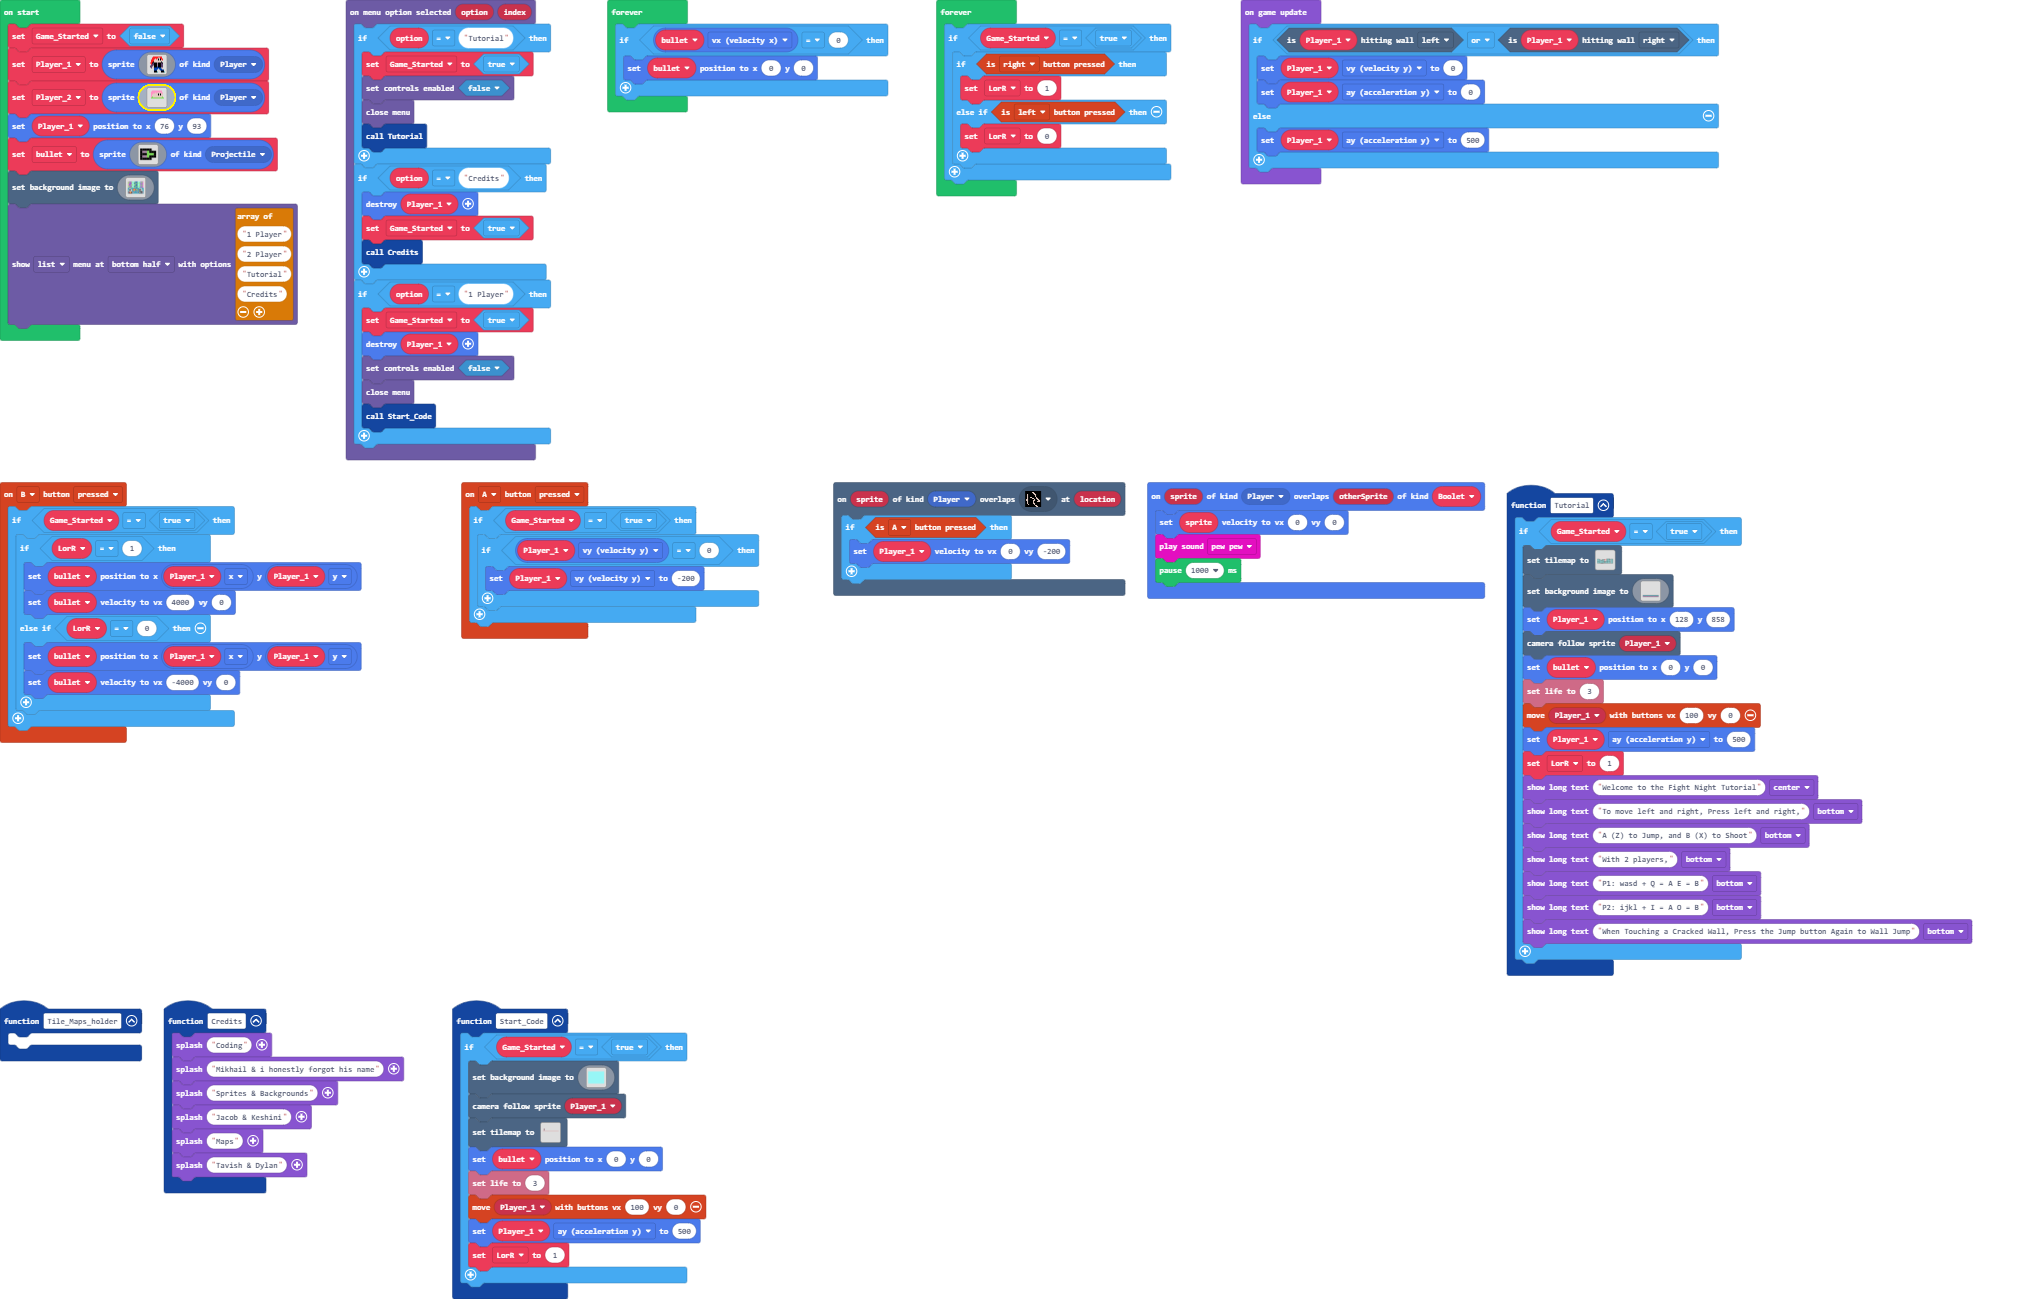
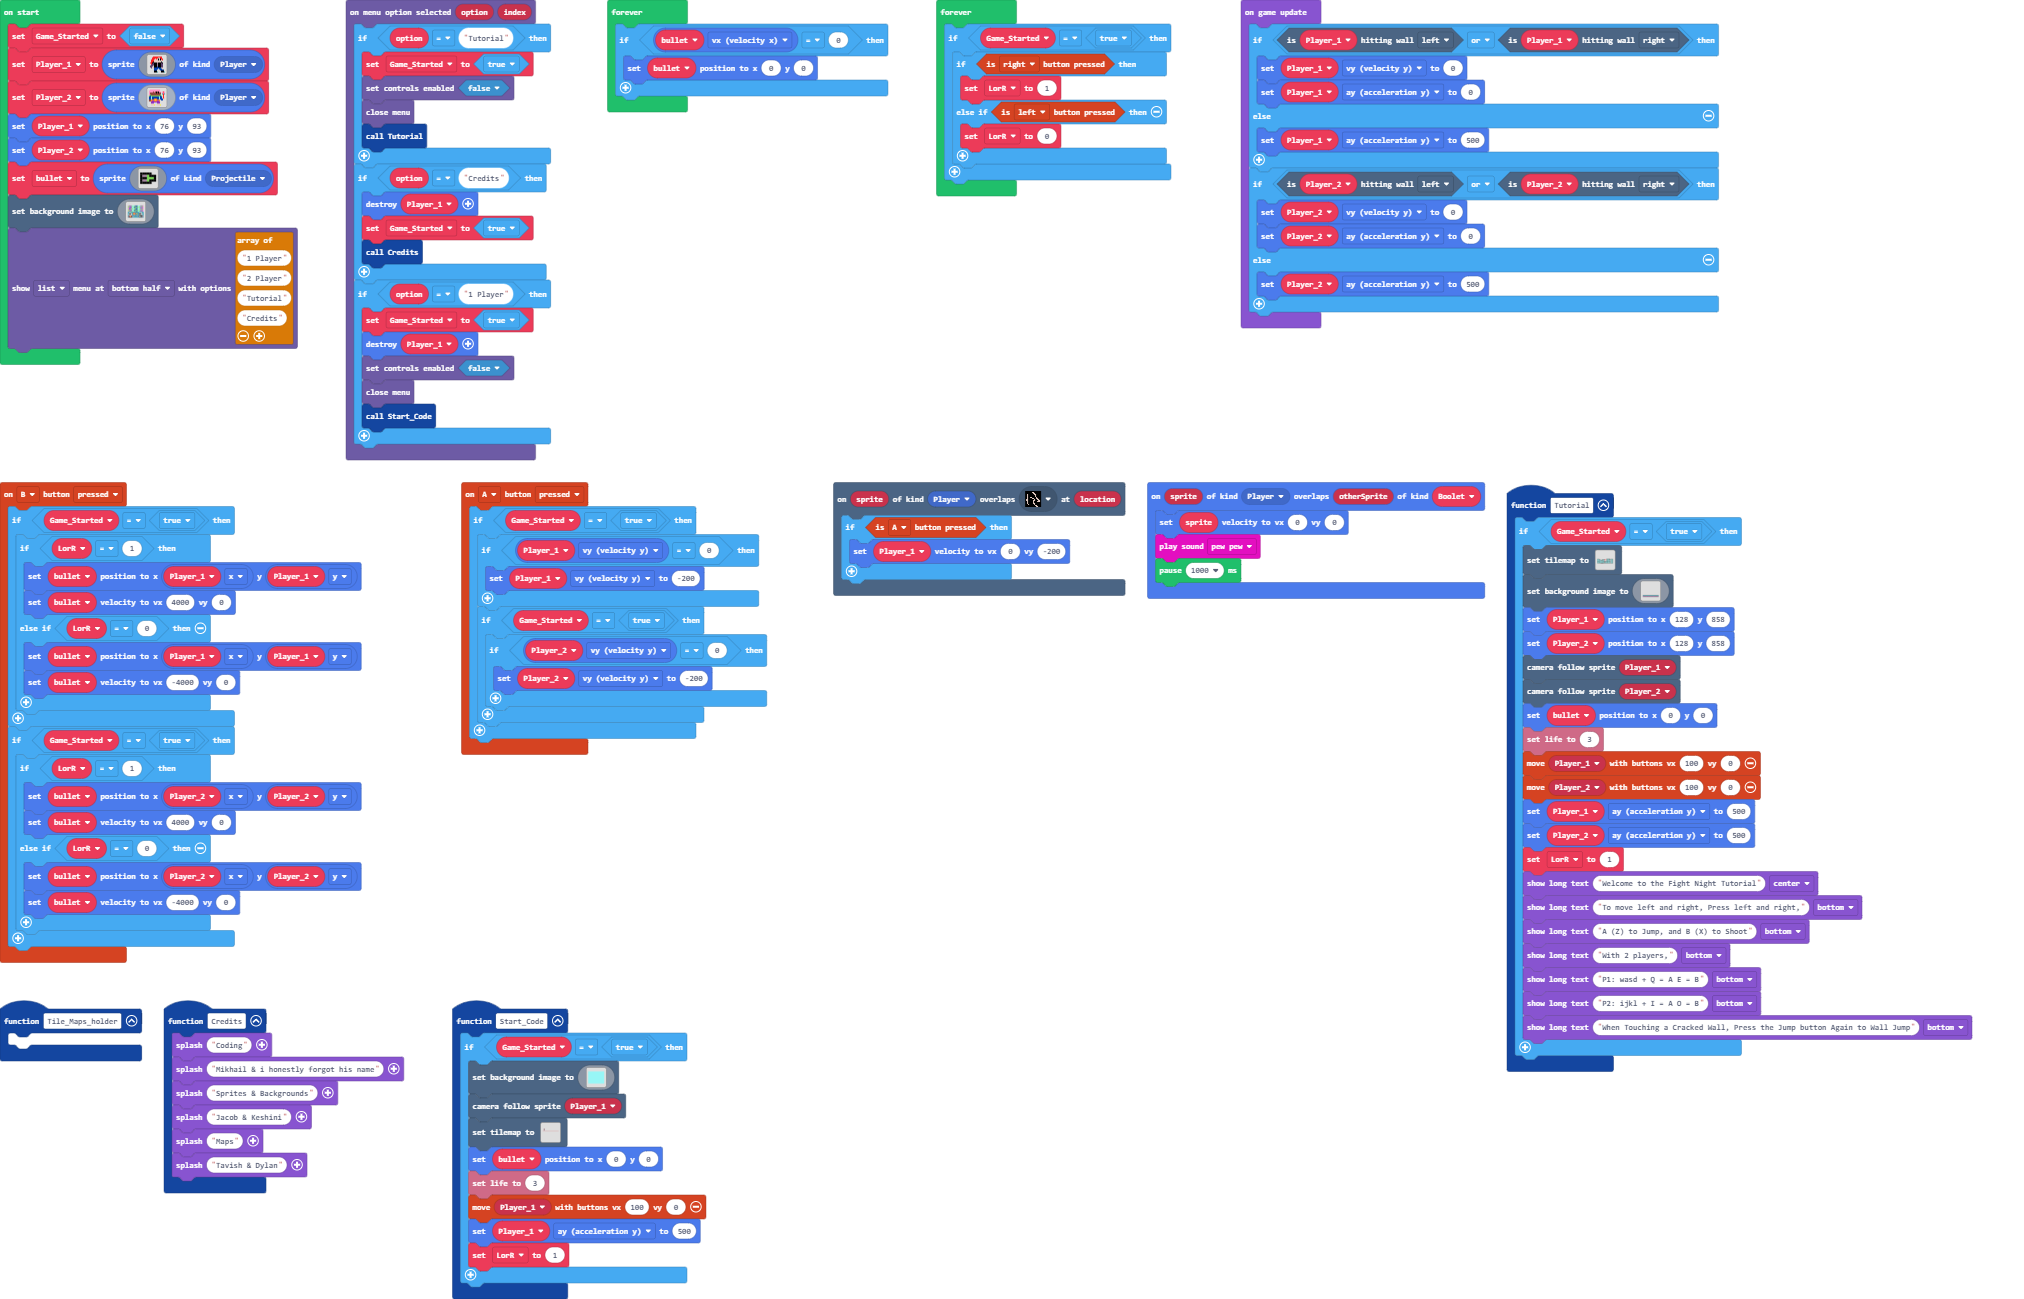
new person

diff --git a/main.ts b/main.ts
@@ -9,11 +9,25 @@ controller.B.onEvent(ControllerButtonEvent.Pressed, function () {
             bullet.setVelocity(-4000, 0)
         }
     }
+    if (Game_Started == true) {
+        if (LorR == 1) {
+            bullet.setPosition(Player_2.x, Player_2.y)
+            bullet.setVelocity(4000, 0)
+        } else if (LorR == 0) {
+            bullet.setPosition(Player_2.x, Player_2.y)
+            bullet.setVelocity(-4000, 0)
+        }
+    }
 })
 controller.A.onEvent(ControllerButtonEvent.Pressed, function () {
     if (Game_Started == true) {
         if (Player_1.vy == 0) {
             Player_1.vy = -200
+        }
+        if (Game_Started == true) {
+            if (Player_2.vy == 0) {
+                Player_2.vy = -200
+            }
         }
     }
 })
@@ -148,11 +162,15 @@ function Tutorial () {
             cccccccccccccccccccccccccccccccccccccccccccccccccccccccccccccccccccccccccccccccccccccccccccccccccccccccccccccccccccccccccccccccccccccccccccccccccccccccccccccccc
             `)
         Player_1.setPosition(128, 858)
+        Player_2.setPosition(128, 858)
         scene.cameraFollowSprite(Player_1)
+        scene.cameraFollowSprite(Player_2)
         bullet.setPosition(0, 0)
         info.setLife(3)
         controller.moveSprite(Player_1, 100, 0)
+        controller.moveSprite(Player_2, 100, 0)
         Player_1.ay = 500
+        Player_2.ay = 500
         LorR = 1
         game.showLongText("Welcome to the Fight Night Tutorial", DialogLayout.Center)
         game.showLongText("To move left and right, Press left and right,", DialogLayout.Bottom)
@@ -334,6 +352,7 @@ function Start_Code () {
 }
 let LorR = 0
 let bullet: Sprite = null
+let Player_2: Sprite = null
 let Player_1: Sprite = null
 let Game_Started = false
 Game_Started = false
@@ -355,25 +374,9 @@ Player_1 = sprites.create(img`
     . . . . . f f f . . . . f f f . 
     . . . . . f f f 6 . . . f f f 6 
     `, SpriteKind.Player)
-let Player_2 = sprites.create(img`
-    . . . . . . . . . . . . . . . . 
-    . . . 3 3 3 3 3 3 3 3 3 3 . . . 
-    . . 3 3 3 3 3 3 3 3 3 3 3 . . . 
-    . . 3 3 3 3 d 3 d d d d 3 3 . . 
-    . . 3 3 d d d d d f d f d d . . 
-    . . 3 d d d d d d f d f d d . . 
-    . . 3 d d d d d d d d d d d . . 
-    . . 3 7 d d d d d d d d d 7 . . 
-    . . 7 7 7 7 7 7 7 7 7 7 7 7 7 . 
-    . . . . . . . . . . . . . . . . 
-    . . . . . . . . . . . . . . . . 
-    . . . . . . . . . . . . . . . . 
-    . . . . . . . . . . . . . . . . 
-    . . . . . . . . . . . . . . . . 
-    . . . . . . . . . . . . . . . . 
-    . . . . . . . . . . . . . . . . 
-    `, SpriteKind.Player)
+Player_2 = sprites.create(assets.image`Diah wache flued`, SpriteKind.Player)
 Player_1.setPosition(76, 93)
+Player_2.setPosition(76, 93)
 bullet = sprites.create(assets.image`Boolet`, SpriteKind.Projectile)
 scene.setBackgroundImage(assets.image`Main Menu Background`)
 blockMenu.showMenu([
@@ -388,6 +391,12 @@ game.onUpdate(function () {
         Player_1.ay = 0
     } else {
         Player_1.ay = 500
+    }
+    if (Player_2.isHittingTile(CollisionDirection.Left) || Player_2.isHittingTile(CollisionDirection.Right)) {
+        Player_2.vy = 0
+        Player_2.ay = 0
+    } else {
+        Player_2.ay = 500
     }
 })
 forever(function () {

diff --git a/images.g.ts b/images.g.ts
@@ -134,6 +134,25 @@ f f f 7 7 7 f
 f b b 7 f f f 
 f f f f f . . 
 `;
+            case "image3":
+            case "Diah wache flued":return img`
+. 3 3 3 3 3 3 3 3 3 3 . . . . . 
+3 3 3 3 3 3 3 3 3 3 3 . . . . . 
+3 3 3 3 e 3 e f e f 3 3 . 3 2 3 
+3 e e e e e e f e f e e . 3 3 3 
+3 e e e e e e e e e e e . 6 2 6 
+3 7 e e e e e e e e e 7 . . 2 . 
+7 8 7 7 7 7 7 7 7 7 7 8 7 . 2 . 
+8 8 9 8 8 8 8 8 8 8 9 8 8 . 2 . 
+8 8 9 8 8 8 8 8 8 8 9 8 8 . 2 d 
+8 8 9 8 8 4 4 4 8 8 9 8 8 8 d d 
+e e 4 4 4 4 5 4 4 4 4 . 8 8 . . 
+e e 4 a a 4 4 4 a a 4 . . . . . 
+. . a a a a a a a a a . . . . . 
+. . a a a . . . a a a . . . . . 
+. . d d d . . . d d d . . . . . 
+. . d d d 5 . . d d d 5 . . . . 
+`;
         }
         return null;
     })
